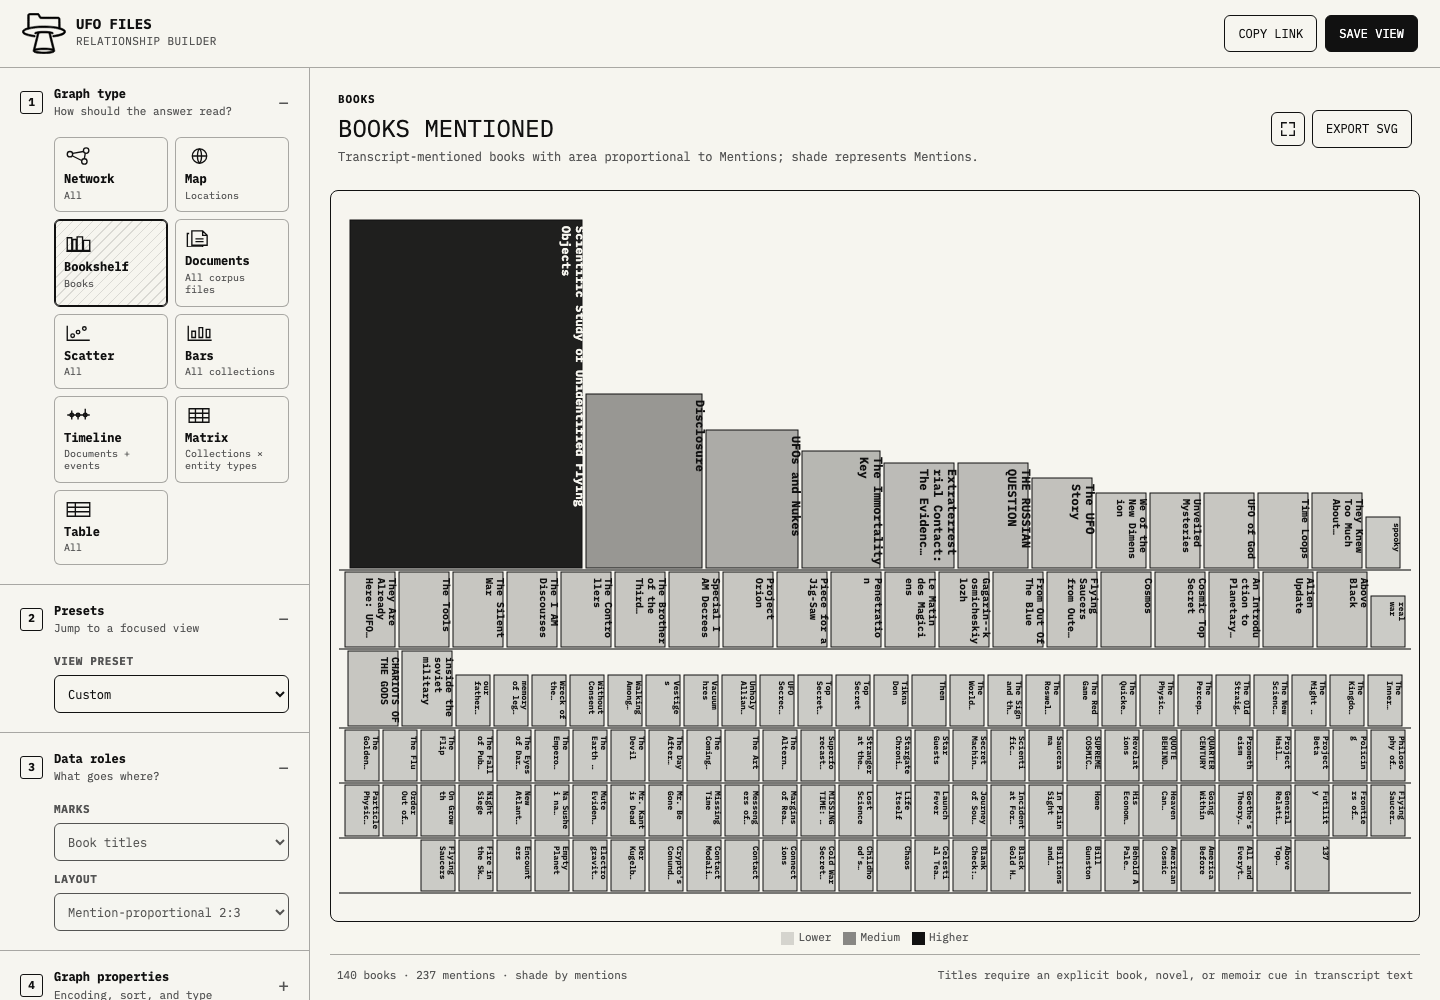
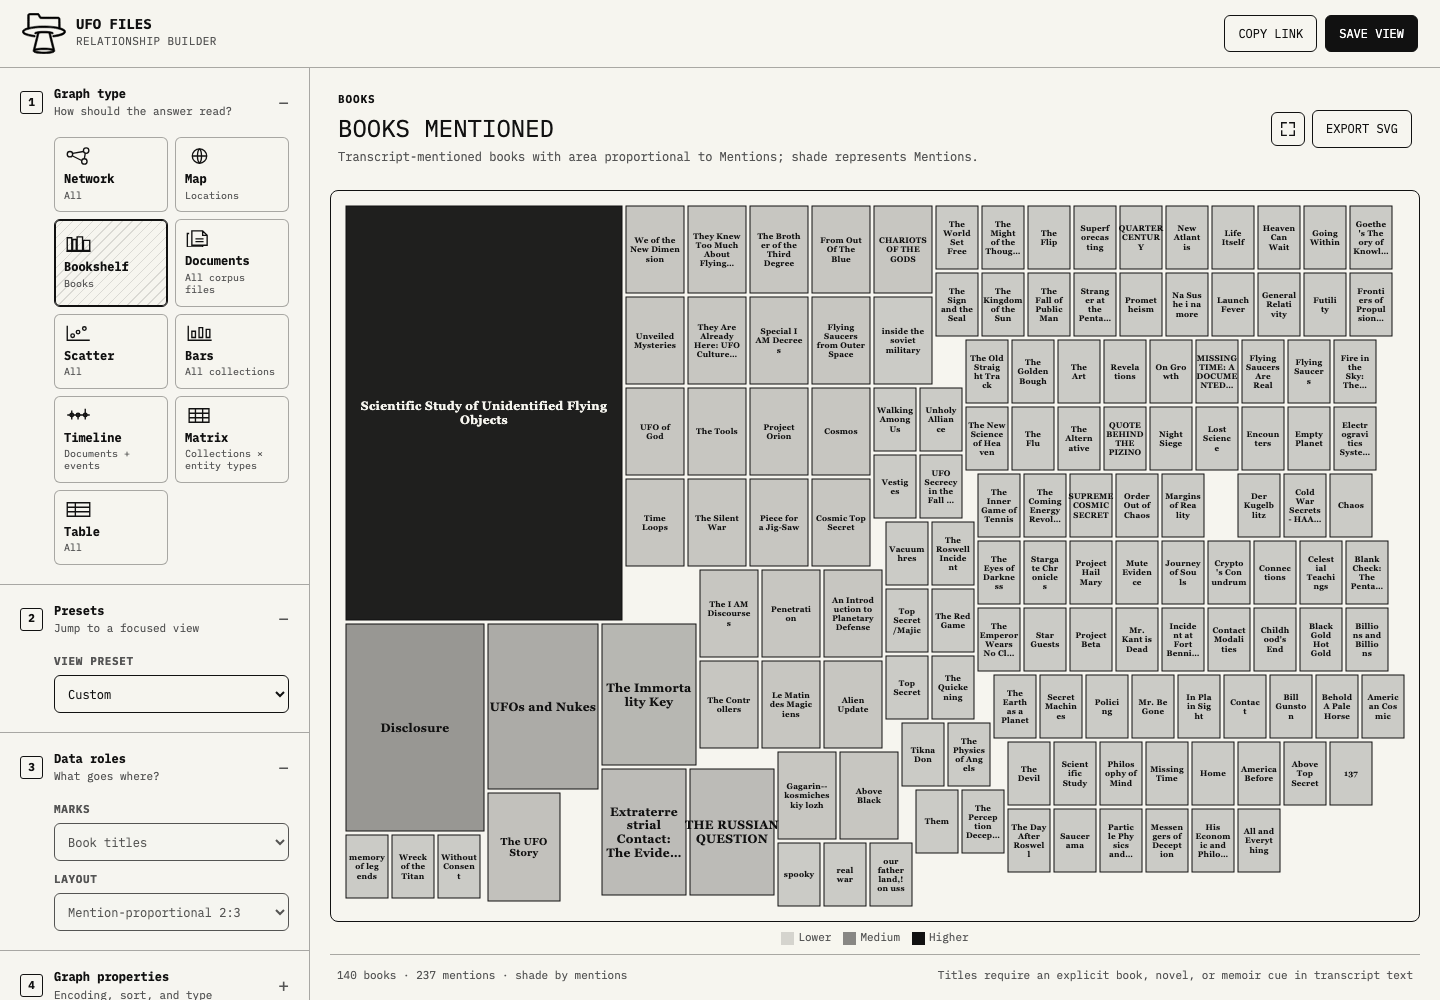
Pack bookshelf as a full area view

diff --git a/app.js b/app.js
@@ -372,7 +372,7 @@ function renderControls() {
   } else if (state.config.type === "map") {
     roles = `<div class="control"><div class="control-title">Marks</div><select disabled><option>Geocoded locations</option></select></div><div class="control"><div class="control-title">Position</div><select disabled><option>Reviewed coordinates</option></select></div>` + relationshipTypeControl();
   } else if (state.config.type === "book") {
-    roles = `<div class="control"><div class="control-title">Marks</div><select disabled><option>Book titles</option></select></div><div class="control"><div class="control-title">Layout</div><select disabled><option>Mention-proportional 2:3 grid</option></select></div>`;
+    roles = `<div class="control"><div class="control-title">Marks</div><select disabled><option>Book titles</option></select></div><div class="control"><div class="control-title">Layout</div><select disabled><option>Mention-proportional 2:3 area</option></select></div>`;
   } else if (state.config.type === "document") {
     roles = `<div class="control"><div class="control-title">Rows</div><select disabled><option>Completed transcript files</option></select></div><div class="control"><div class="control-title">Layout</div><select disabled><option>Searchable file browser</option></select></div>`;
   } else if (state.config.type === "scatter") {
@@ -1086,7 +1086,7 @@ function renderMap() {
 }
 
 function bookshelfLayout(items, width, height) {
-  if (!items.length) return { blocks: [], shelfYs: [], rows: 0 };
+  if (!items.length) return { blocks: [], occupancy: 0 };
   const inset = 14;
   const gap = 4;
   const availableWidth = width - inset * 2;
@@ -1096,23 +1096,65 @@ function bookshelfLayout(items, width, height) {
     .sort((left, right) => right.weight - left.weight || left.index - right.index);
 
   const packAtScale = scaleValue => {
-    const shelves = [];
+    let freeRectangles = [{ x: 0, y: 0, width: availableWidth + gap, height: availableHeight + gap }];
+    const placements = [];
+    const contains = (outer, inner) => (
+      inner.x >= outer.x && inner.y >= outer.y
+      && inner.x + inner.width <= outer.x + outer.width
+      && inner.y + inner.height <= outer.y + outer.height
+    );
+    const overlaps = (left, right) => !(
+      left.x + left.width <= right.x || right.x + right.width <= left.x
+      || left.y + left.height <= right.y || right.y + right.height <= left.y
+    );
+
     for (const entry of weighted) {
       const unit = Math.max(2, Math.round(Math.sqrt(entry.weight) * scaleValue));
       const book = { ...entry, unit, width: unit * 2, height: unit * 3 };
       if (book.width > availableWidth || book.height > availableHeight) return null;
-      let shelf = shelves.find(candidate => candidate.width + gap + book.width <= availableWidth);
-      if (!shelf) {
-        shelf = { entries: [], width: 0, height: book.height };
-        shelves.push(shelf);
-      }
-      if (shelf.entries.length) shelf.width += gap;
-      shelf.entries.push(book);
-      shelf.width += book.width;
-      shelf.height = Math.max(shelf.height, book.height);
+      const outerWidth = book.width + gap;
+      const outerHeight = book.height + gap;
+      const target = freeRectangles
+        .filter(rectangle => outerWidth <= rectangle.width && outerHeight <= rectangle.height)
+        .map(rectangle => ({
+          rectangle,
+          shortSide: Math.min(rectangle.width - outerWidth, rectangle.height - outerHeight),
+          longSide: Math.max(rectangle.width - outerWidth, rectangle.height - outerHeight)
+        }))
+        .sort((left, right) => (
+          left.shortSide - right.shortSide || left.longSide - right.longSide
+          || left.rectangle.y - right.rectangle.y || left.rectangle.x - right.rectangle.x
+        ))[0]?.rectangle;
+      if (!target) return null;
+
+      const used = { x: target.x, y: target.y, width: outerWidth, height: outerHeight };
+      placements.push({ ...book, x: used.x, y: used.y });
+      const splitRectangles = [];
+      freeRectangles.forEach(rectangle => {
+        if (!overlaps(rectangle, used)) {
+          splitRectangles.push(rectangle);
+          return;
+        }
+        const rectangleRight = rectangle.x + rectangle.width;
+        const rectangleBottom = rectangle.y + rectangle.height;
+        const usedRight = used.x + used.width;
+        const usedBottom = used.y + used.height;
+        if (used.x > rectangle.x) splitRectangles.push({ x: rectangle.x, y: rectangle.y, width: used.x - rectangle.x, height: rectangle.height });
+        if (usedRight < rectangleRight) splitRectangles.push({ x: usedRight, y: rectangle.y, width: rectangleRight - usedRight, height: rectangle.height });
+        if (used.y > rectangle.y) splitRectangles.push({ x: rectangle.x, y: rectangle.y, width: rectangle.width, height: used.y - rectangle.y });
+        if (usedBottom < rectangleBottom) splitRectangles.push({ x: rectangle.x, y: usedBottom, width: rectangle.width, height: rectangleBottom - usedBottom });
+      });
+      freeRectangles = [];
+      splitRectangles
+        .filter(rectangle => rectangle.width > 0 && rectangle.height > 0)
+        .sort((left, right) => right.width * right.height - left.width * left.height)
+        .forEach(rectangle => {
+          if (freeRectangles.some(existing => contains(existing, rectangle))) return;
+          freeRectangles = freeRectangles.filter(existing => !contains(rectangle, existing));
+          freeRectangles.push(rectangle);
+        });
     }
-    const packedHeight = shelves.reduce((sum, shelf) => sum + shelf.height, 0) + gap * Math.max(0, shelves.length - 1);
-    return packedHeight <= availableHeight ? { shelves, packedHeight } : null;
+    return { placements };
   };
 
   const largestRoot = Math.sqrt(weighted[0].weight);
@@ -1129,30 +1171,22 @@ function bookshelfLayout(items, width, height) {
       upperScale = candidateScale;
     }
   }
-  if (!best) return { blocks: [], shelfYs: [], rows: 0 };
+  if (!best) return { blocks: [], occupancy: 0 };
 
-  const blocks = [];
-  const shelfYs = [];
-  let shelfTop = Math.floor((height - best.packedHeight) / 2);
-  best.shelves.forEach((shelf, shelfIndex) => {
-    let x = Math.floor((width - shelf.width) / 2);
-    shelf.entries.forEach((book, column) => {
-      blocks.push({
-        item: book.item,
-        x,
-        y: shelfTop + shelf.height - book.height,
-        width: book.width,
-        height: book.height,
-        shelf: shelfIndex,
-        column,
-        mentions: book.weight
-      });
-      x += book.width + gap;
-    });
-    shelfYs.push(Math.min(height - inset, shelfTop + shelf.height + gap / 2));
-    shelfTop += shelf.height + gap;
-  });
-  return { blocks, shelfYs, rows: best.shelves.length };
+  const usedWidth = Math.max(...best.placements.map(book => book.x + book.width));
+  const usedHeight = Math.max(...best.placements.map(book => book.y + book.height));
+  const offsetX = inset + Math.floor((availableWidth - usedWidth) / 2);
+  const offsetY = inset + Math.floor((availableHeight - usedHeight) / 2);
+  const blocks = best.placements.map(book => ({
+    item: book.item,
+    x: offsetX + book.x,
+    y: offsetY + book.y,
+    width: book.width,
+    height: book.height,
+    mentions: book.weight
+  }));
+  const occupiedArea = blocks.reduce((sum, block) => sum + block.width * block.height, 0);
+  return { blocks, occupancy: occupiedArea / (availableWidth * availableHeight) };
 }
 
 function bookLabelLines(title, maxCharacters, maxLines) {
@@ -1173,24 +1207,18 @@ function bookLabelLines(title, maxCharacters, maxLines) {
   return lines;
 }
 
-function bookLabelGeometry(block, labelSize) {
-  const vertical = block.height > block.width;
-  const lineLength = vertical ? block.height : block.width;
-  const lineSpace = vertical ? block.width : block.height;
-  const x = vertical ? block.x + block.width - 6 : block.x + 6;
-  const y = block.y + (vertical ? 6 : labelSize + 3);
+function bookTitleLayout(block, requestedSize) {
+  const labelSize = Math.min(requestedSize, Math.max(8, Math.floor(Math.min(block.width / 7, block.height / 6))));
+  const maxCharacters = Math.max(4, Math.floor((block.width - 14) / (labelSize * .57)));
+  const maxLines = Math.max(1, Math.min(4, Math.floor((block.height - 14) / (labelSize * 1.15))));
+  const lines = bookLabelLines(block.item.name, maxCharacters, maxLines);
+  const lineHeight = labelSize * 1.15;
   return {
-    vertical,
-    x,
-    y,
-    maxCharacters: Math.max(4, Math.floor((lineLength - 12) / (labelSize * .62))),
-    maxLines: Math.max(1, Math.min(3, Math.floor((lineSpace - 12) / (labelSize * 1.15)))),
-    transform: vertical ? `rotate(90 ${x} ${y})` : ""
+    labelSize,
+    lines,
+    x: block.x + block.width / 2,
+    y: block.y + block.height / 2 - (lines.length - 1) * lineHeight / 2 + labelSize * .35
   };
-}
-
-function bookSpineLabelSize(block, requestedSize) {
-  return Math.min(requestedSize, Math.max(8, Math.floor(block.width / 5)));
 }
 
 function renderBook() {
@@ -1200,8 +1228,7 @@ function renderBook() {
     .slice(0, state.config.limit);
   if (!data.length) return showEmpty();
   const extent = valueExtent(data, state.config.size);
-  const { blocks, shelfYs } = bookshelfLayout(data, width, height);
-  shelfYs.forEach(y => svg.append(el("line", { x1: 8, y1: y, x2: width - 8, y2: y, stroke: "#111", "stroke-opacity": .55, "stroke-width": 2, class: "book-shelf" })));
+  const { blocks } = bookshelfLayout(data, width, height);
   blocks.forEach(block => {
     const shade = scale(block.item[state.config.size], extent, [.16, .94]);
     const rect = el("rect", {
@@ -1212,16 +1239,15 @@ function renderBook() {
     rect.addEventListener("click", () => inspectEntity(block.item));
     svg.append(rect);
     const shouldLabel = state.config.labels !== "none";
-    const labelSize = bookSpineLabelSize(block, state.config.labelSize);
-    if (!shouldLabel || block.width < 24 || block.height < labelSize + 10) return;
-    const labelGeometry = bookLabelGeometry(block, labelSize);
+    if (!shouldLabel || block.width < 36 || block.height < 32) return;
+    const titleLayout = bookTitleLayout(block, state.config.labelSize);
     const text = el("text", {
-      x: labelGeometry.x, y: labelGeometry.y,
-      fill: shade > .55 ? "#f6f5ef" : "#111", class: "book-label", style: `font-size:${labelSize}px`,
-      ...(labelGeometry.transform ? { transform: labelGeometry.transform } : {})
+      x: titleLayout.x, y: titleLayout.y,
+      fill: shade > .55 ? "#f6f5ef" : "#111", class: "book-label", "text-anchor": "middle",
+      style: `font-size:${titleLayout.labelSize}px;font-family:Georgia,'Times New Roman',serif;font-weight:700;letter-spacing:.025em`
     });
-    bookLabelLines(block.item.name, labelGeometry.maxCharacters, labelGeometry.maxLines).forEach((line, lineIndex) => text.append(el("tspan", {
-      x: labelGeometry.x, dy: lineIndex ? "1.15em" : 0
+    titleLayout.lines.forEach((line, lineIndex) => text.append(el("tspan", {
+      x: titleLayout.x, dy: lineIndex ? "1.15em" : 0
     }, line)));
     svg.append(text);
   });

diff --git a/tests/test_app.js b/tests/test_app.js
@@ -477,20 +477,18 @@ test("Book is a first-class proportional bookshelf for transcript-backed titles"
         { id: "three", name: "Journey of Souls", category: "book", mentions: 2, contextAdjustedMentions: 2 }
       ];
       const layout = bookshelfLayout(items, 900, 600);
-      const denseItems = Array.from({ length: 132 }, (_, index) => ({ id: String(index), mentions: (index % 9 + 1) ** 2 }));
+      const denseItems = Array.from({ length: 132 }, (_, index) => ({ id: String(index), name: "Book " + index, mentions: (index % 9 + 1) ** 2 }));
       const denseLayout = bookshelfLayout(denseItems, 970, 732);
       return JSON.stringify({
         types: TYPES.map(type => type.id),
         bookTypeLabel: TYPES.find(type => type.id === "book").label,
         title: dataAwareTitle({ ...DEFAULT, type: "book", categories: ["book"] }),
         blocks: layout.blocks.map(block => ({ id: block.item.id, mentions: block.item.mentions, x: block.x, y: block.y, width: block.width, height: block.height })),
-        shelves: layout.shelfYs.length,
-        rows: layout.rows,
+        occupancy: layout.occupancy,
         dense: {
-          rows: denseLayout.rows,
+          occupancy: denseLayout.occupancy,
           blocks: denseLayout.blocks.map(block => ({ x: block.x, y: block.y, width: block.width, height: block.height })),
-          labelSize: bookSpineLabelSize(denseLayout.blocks[0], 12),
-          label: bookLabelGeometry(denseLayout.blocks[0], bookSpineLabelSize(denseLayout.blocks[0], 12))
+          title: bookTitleLayout(denseLayout.blocks[0], 12)
         },
         narrowLabel: bookLabelLines("Extraterrestrial Intelligence", 8, 2)
       });
@@ -508,29 +506,29 @@ test("Book is a first-class proportional bookshelf for transcript-backed titles"
   assert.ok(bookById.one.width > bookById.two.width && bookById.two.width > bookById.three.width);
   assert.ok(result.blocks.every(block => block.width * 3 === block.height * 2));
   assert.ok(result.blocks.every(block => block.width % 2 === 0 && block.height % 3 === 0));
-  assert.ok(result.shelves >= 1);
+  assert.ok(result.occupancy > .5);
   assert.ok(result.dense.blocks.every(block => block.width * 3 === block.height * 2));
   assert.ok(result.dense.blocks.every(block => block.width % 2 === 0 && block.height % 3 === 0));
   assert.ok(result.dense.blocks.every(block => block.x >= 0 && block.y >= 0 && block.x + block.width <= 970 && block.y + block.height <= 732));
   assert.ok(new Set(result.dense.blocks.map(block => block.width)).size > 1);
-  assert.ok(result.dense.rows >= 1);
+  assert.ok(result.dense.occupancy > .5);
   result.dense.blocks.forEach((block, index) => result.dense.blocks.slice(index + 1).forEach(other => {
     const separated = block.x + block.width <= other.x || other.x + other.width <= block.x || block.y + block.height <= other.y || other.y + other.height <= block.y;
     assert.equal(separated, true);
   }));
-  assert.equal(result.dense.label.vertical, true);
-  assert.ok(result.dense.labelSize >= 8 && result.dense.labelSize <= 12);
-  assert.match(result.dense.label.transform, /^rotate\(90 /);
-  assert.ok(result.dense.label.maxCharacters >= 4);
-  assert.ok(result.dense.label.maxLines >= 1);
+  assert.ok(result.dense.title.labelSize >= 8 && result.dense.title.labelSize <= 12);
+  assert.ok(result.dense.title.lines.length >= 1);
   assert.ok(result.narrowLabel.every(line => line.length <= 8));
   assert.match(result.narrowLabel.at(-1), /…$/);
   assert.match(source, /book: \{[^}]*labels: "all"/);
   assert.doesNotMatch(source, /if \(type === "book"\).*categories: \["book"\]/);
   assert.match(source, /const data = filteredEntities\(\["book"\]\)/);
-  assert.match(source, /Mention-proportional 2:3 grid/);
+  assert.match(source, /Mention-proportional 2:3 area/);
   assert.match(source, /Math\.sqrt\(entry\.weight\) \* scaleValue/);
   assert.match(source, /Number\(item\.mentions\)/);
+  assert.match(source, /font-family:Georgia,'Times New Roman',serif/);
+  assert.match(source, /"text-anchor": "middle"/);
+  assert.doesNotMatch(source, /class: "book-shelf"/);
   assert.match(source, /state\.config\.type === "book" \? "Shade" : "Size \+ shade"/);
   assert.match(source, /const fixedCategories = state\.config\.type === "book" \|\| state\.config\.type === "document"/);
   assert.match(source, /state\.config\.type === "book" \? category === "book"/);

diff --git a/README.md b/README.md
@@ -78,7 +78,7 @@ Scatter plots, maps, and entity timelines can add a deduplicated relationship la
 
 Entities are a global data role: they can be network nodes, a Scatter axis, the Bar dimension, Timeline marks, Matrix columns, or Table rows. Network nodes can also be collections, connected by the published entities they share. The Table type also builds custom lists of transcript files and collections with selectable columns, sorting, search, row limits, evidence inspection, and CSV export. Entity-backed views share the same category, confidence, collection, evidence, label, and publication controls.
 
-The Book type is an abstract bookshelf of upright 2:3 book shapes snapped to integer grid dimensions. Each block is a title explicitly identified in transcript text, with area proportional to its raw mention count and shade controlled independently by the selected prominence metric. Titles are extracted only from book, novel, or memoir cues; each mark opens its source evidence in the inspector.
+The Book type is a packed area view of upright 2:3 book-cover shapes snapped to integer dimensions. Each block is a title explicitly identified in transcript text, with area proportional to its raw mention count and shade controlled independently by the selected prominence metric. Smaller books fill open space around larger ones, and readable covers use centered serif title typography. Titles are extracted only from book, novel, or memoir cues; each mark opens its source evidence in the inspector.
 
 The Map type renders a rotatable Three.js globe with SVG country boundaries and location-entity nodes. Node position comes only from the reviewed `data/location_coordinates.json` gazetteer; ambiguous and unmapped names are reported but never guessed onto the globe. Map nodes retain the same collection, confidence, prominence-inflation, size, label, and evidence-inspection controls as other entity views.
 
